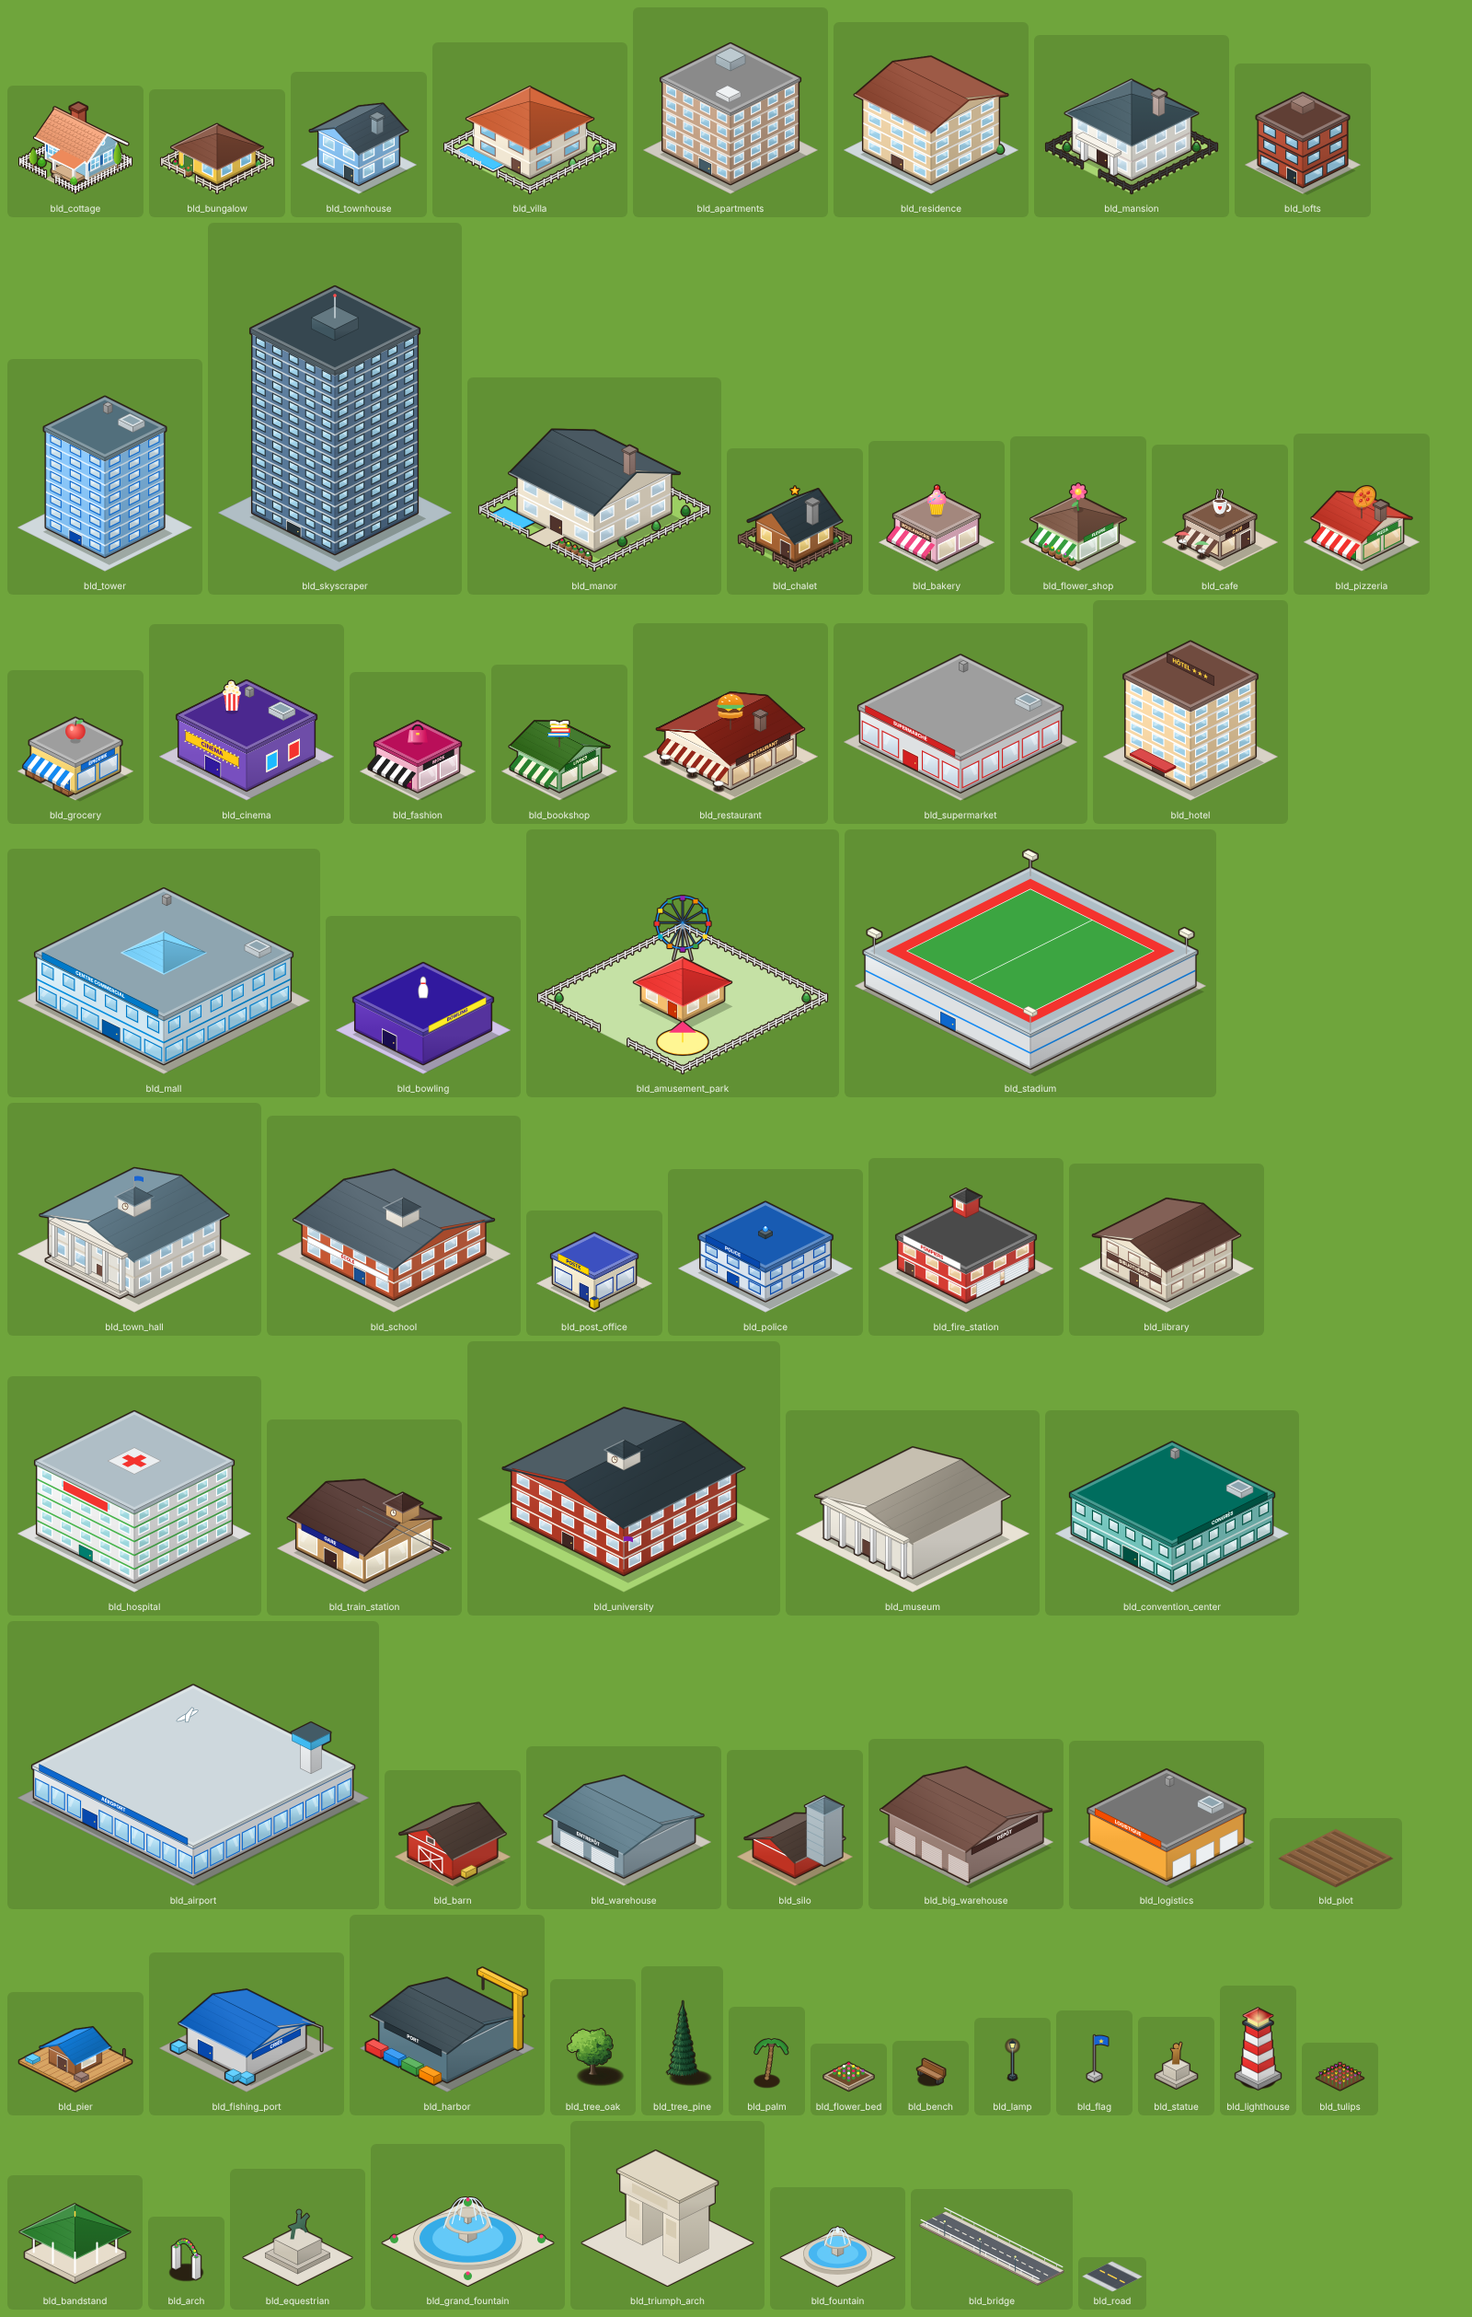
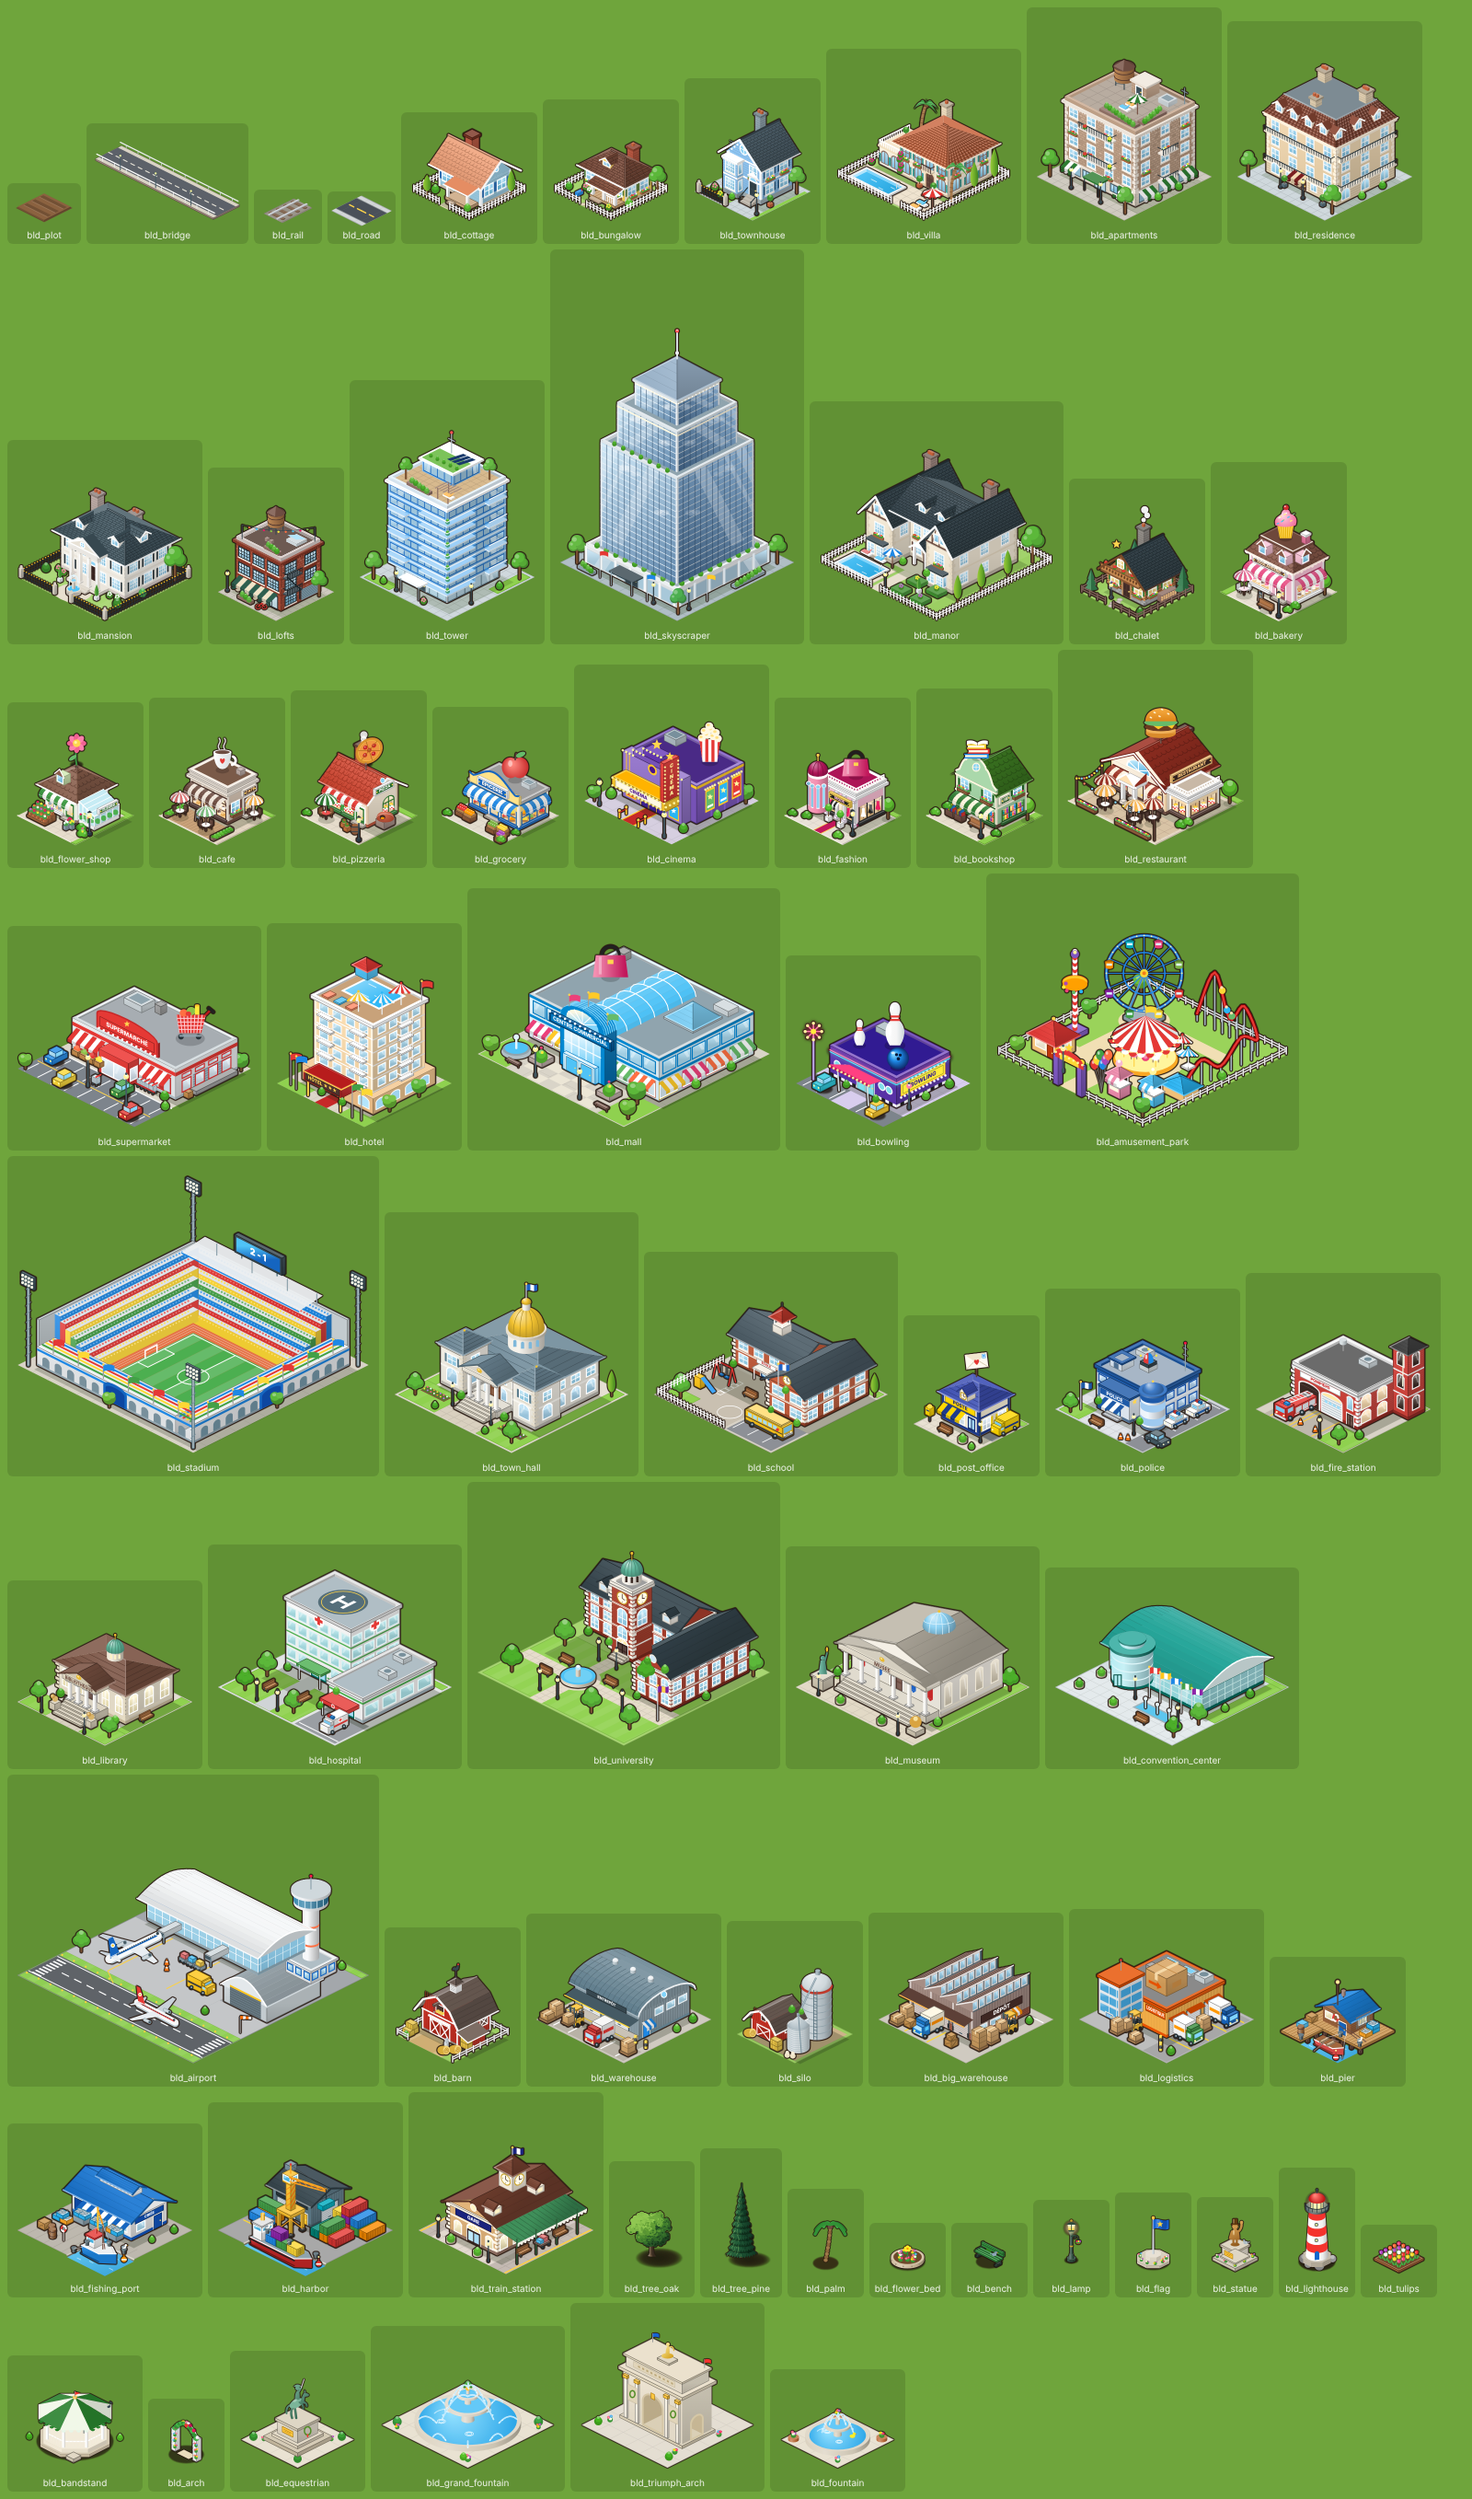
Bâtiments et décors dessinés à la demande (démarrage 25× plus rapide), captures à jour
- ArtLibrary : les visuels détaillés sont dessinés au premier usage
- WorldScene ajoute la texture Phaser au premier affichage
- Contour en 8 directions, sans passe de saturation pour les bâtiments

Claude-Session: https://claude.ai/code/session_017Limc6rZpoGpKDFKePNBfP

diff --git a/src/render/art/library.ts b/src/render/art/library.ts
@@ -1,8 +1,8 @@
 import { BUILDINGS } from '@/data/buildings';
 import { CROPS } from '@/data/crops';
 import { boatArt, bridgeArt, movingTruckArt, BOAT_TIERS } from './boats';
-import { buildingArt } from './buildings';
-import { decorationArt } from './decorations';
+import { BUILDING_ART_IDS, buildingArt } from './buildings';
+import { DECORATION_ART_IDS, decorationArt } from './decorations';
 import type { ShoreKind } from './ground';
 import { createCanvas, type ArtPiece } from './IsoPainter';
 import { outlined } from './toon';
@@ -84,16 +84,32 @@ function compose(base: ArtPiece, overlay: ArtPiece): ArtPiece {
 
 export class ArtLibrary {
   readonly pieces = new Map<string, ArtPiece>();
+  /** Visuels détaillés (bâtiments) dessinés seulement à leur premier usage : démarrage plus rapide. */
+  private readonly lazy = new Map<string, () => ArtPiece | null>();
   private iconCache = new Map<string, string>();
 
   get(key: string): ArtPiece {
-    const piece = this.pieces.get(key);
+    const piece = this.pieces.get(key) ?? this.draw(key);
     if (!piece) throw new Error(`Texture inconnue : ${key}`);
     return piece;
   }
 
   has(key: string): boolean {
-    return this.pieces.has(key);
+    return this.pieces.has(key) || this.lazy.has(key);
+  }
+
+  /** Dessine tout de suite les visuels encore en attente (planche de contrôle). */
+  drawAll(): void {
+    for (const key of [...this.lazy.keys()]) this.draw(key);
+  }
+
+  private draw(key: string): ArtPiece | undefined {
+    const make = this.lazy.get(key);
+    if (!make) return undefined;
+    this.lazy.delete(key);
+    const piece = make();
+    if (piece) this.pieces.set(key, piece);
+    return piece ?? undefined;
   }
 
   /** Visuel dessiné à la première demande, puis conservé. */
@@ -111,7 +127,7 @@ export class ArtLibrary {
     const cacheKey = `${key}@${max}`;
     const cached = this.iconCache.get(cacheKey);
     if (cached) return cached;
-    const piece = this.pieces.get(key);
+    const piece = this.pieces.get(key) ?? this.draw(key);
     if (!piece) return '';
     const { width, height } = piece.canvas;
     const scale = Math.min(1, max / Math.max(width, height));
@@ -152,9 +168,12 @@ export class ArtLibrary {
       }
       if (def.category === 'farm') lib.add(ArtKey.building(def.id), plot);
       else if (def.category === 'decoration') {
-        const art = decorationArt(def.id);
-        lib.add(ArtKey.building(def.id), art && outlined(art, 1.6));
-      } else lib.add(ArtKey.building(def.id), buildingArt(def.id));
+        if (DECORATION_ART_IDS.includes(def.id))
+          lib.lazy.set(ArtKey.building(def.id), () => {
+            const art = decorationArt(def.id);
+            return art && outlined(art, 1.6);
+          });
+      } else if (BUILDING_ART_IDS.includes(def.id)) lib.lazy.set(ArtKey.building(def.id), () => buildingArt(def.id));
     }
     lib.add(ArtKey.building('road'), roadTile(5));
     for (const crop of CROPS) {

diff --git a/src/render/WorldScene.ts b/src/render/WorldScene.ts
@@ -299,7 +299,17 @@ export class WorldScene extends Phaser.Scene {
 
   // ———————————————————————————— Vues des constructions ————————————————————————————
 
+  /** Clé de texture, ajoutée à Phaser au premier usage (les bâtiments sont dessinés à la demande). */
+  private texture(key: string): string {
+    if (!this.textures.exists(key)) this.textures.addCanvas(key, this.ctx.art.get(key).canvas);
+    return key;
+  }
+
   private textureFor(entity: Entity): string {
+    return this.texture(this.baseTextureFor(entity));
+  }
+
+  private baseTextureFor(entity: Entity): string {
     const def = getBuildingDef(entity.defId);
     if (def.id === 'road') {
       return ArtKey.road(roadMask((x, y) => this.game_.isRoad(x, y) || this.map.isWildRoad(x, y), entity.x, entity.y));
@@ -1292,7 +1302,7 @@ export class WorldScene extends Phaser.Scene {
       x = spot.x;
       y = spot.y;
     }
-    const key = defId === 'road' ? ArtKey.road(0) : ArtKey.building(defId);
+    const key = this.texture(defId === 'road' ? ArtKey.road(0) : ArtKey.building(defId));
     const piece = this.ctx.art.get(key);
     const ghost = this.add
       .image(0, 0, key)

diff --git a/src/render/art/toon.ts b/src/render/art/toon.ts
@@ -38,8 +38,9 @@ export function outlined(piece: ArtPiece, px = 2.2, saturate = 1.12, color = OUT
   sil.ctx.fillStyle = color;
   sil.ctx.fillRect(0, 0, width, height);
   const out = createCanvas(width + pad * 2, height + pad * 2);
-  for (let a = 0; a < 16; a++) {
-    const t = (a / 16) * Math.PI * 2;
+  // Huit directions suffisent pour un contour de 2 à 3 px, et coûtent deux fois moins que seize.
+  for (let a = 0; a < 8; a++) {
+    const t = (a / 8) * Math.PI * 2;
     out.ctx.drawImage(sil.canvas, pad + Math.cos(t) * px, pad + Math.sin(t) * px);
   }
   out.ctx.drawImage(src, pad, pad);
@@ -52,7 +53,8 @@ export function outlined(piece: ArtPiece, px = 2.2, saturate = 1.12, color = OUT
 
 /** Superpose un calque d'objets (contouré) sur un calque de sol (non contouré) de mêmes dimensions. */
 export function layered(ground: ArtPiece, objects: ArtPiece, px = 2.2): ArtPiece {
-  const top = outlined(objects, px);
+  // Les bâtiments dessinés à la main ont déjà des couleurs franches : pas de passe de saturation (coûteuse).
+  const top = outlined(objects, px, 1);
   const pad = (top.canvas.width - ground.canvas.width) / 2;
   const { canvas, ctx } = createCanvas(top.canvas.width, top.canvas.height);
   ctx.drawImage(ground.canvas, pad, pad);

diff --git a/src/dev/artPreview.ts b/src/dev/artPreview.ts
@@ -14,6 +14,7 @@ import { PLANT_VARIANTS, plantArt, type PlantKind } from '@/render/art/nature';
 
 const params = new URLSearchParams(location.search);
 const lib = ArtLibrary.build();
+lib.drawAll();
 // Visuels que la carte dessine à la demande.
 for (let i = 0; i < GROUND_PERIOD; i++) {
   for (let j = 0; j < GROUND_PERIOD; j++) {

diff --git a/src/render/art/decorations.ts b/src/render/art/decorations.ts
@@ -1195,3 +1195,5 @@ export function decorationArt(defId: string): ArtPiece | null {
   const draw = DECORATIONS[defId];
   return draw ? draw() : null;
 }
+
+export const DECORATION_ART_IDS = Object.keys(DECORATIONS);
